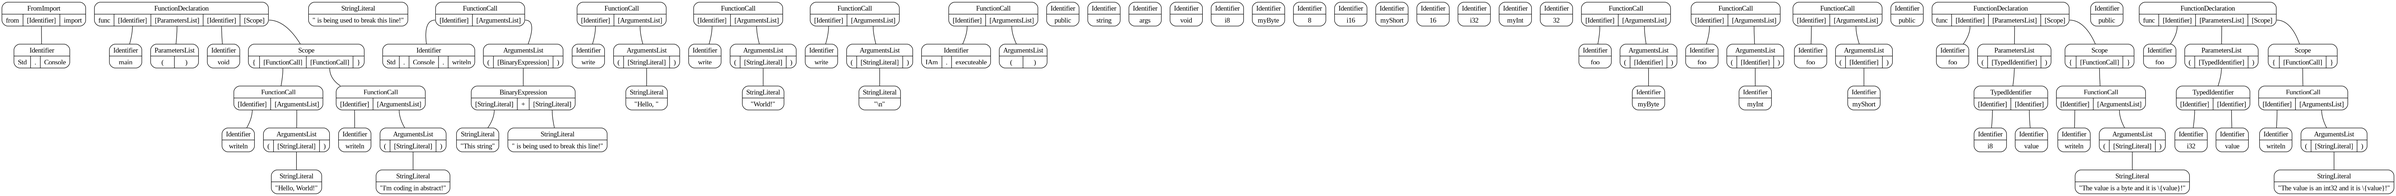
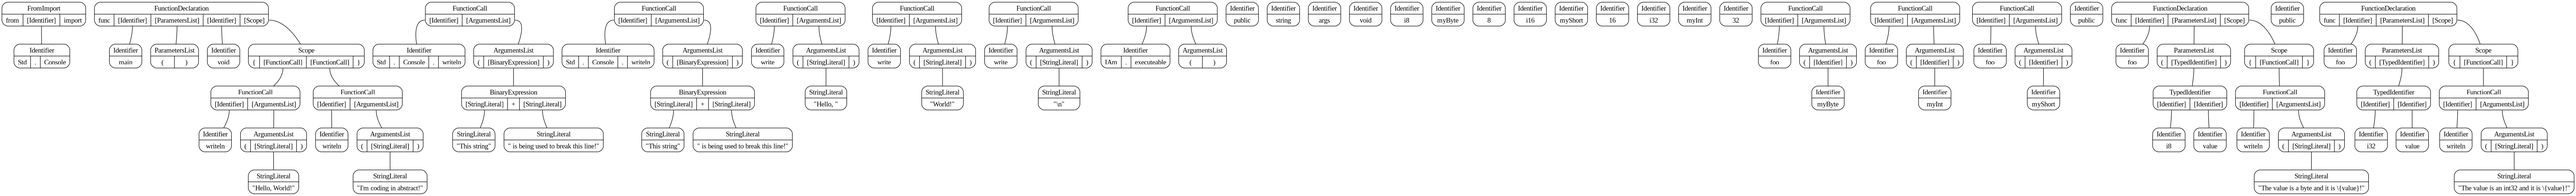
implementing line connect

diff --git a/Parsing/Lexer.cs b/Parsing/Lexer.cs
@@ -33,12 +33,16 @@ public static class Lexer
         {"false", TokenKind.keyword_value_false},
         {"null", TokenKind.keyword_value_null},
     };
-    private static readonly Dictionary<string, (bool left, bool right)> _tokenLineConnectorMap = new()
+    private static readonly Dictionary<TokenKind, (bool left, bool right)> _tokenLineConnectorMap = new()
     {
-        // TODO
+        {TokenKind.char_cross, (true, true)},
+        {TokenKind.char_dash, (true, true)},
+        {TokenKind.char_star, (true, true)},
+        {TokenKind.char_slash, (true, true)},
+        {TokenKind.char_percent, (true, true)},
     };
 
-    public static Token[] LexText(ReadOnlyMemory<char> text)
+    public static Token[] LexText(ReadOnlyMemory<char> text, bool removeUnecessary = false)
     {
         var textSpan = text.Span;
         int index = 0;
@@ -144,6 +148,7 @@ public static class Lexer
             index++; continue;
         }
 
+        if (removeUnecessary) RemoveUncecessaryTokens(tokens);
 
         var str = new StringBuilder();
         foreach (var i in tokens)
@@ -159,6 +164,32 @@ public static class Lexer
         File.WriteAllText("tokens.txt", str.ToString());
 
         return [.. tokens];
+    }
+
+    private static void RemoveUncecessaryTokens(List<Token> tkns)
+    {
+        for (var i = 0; i < tkns.Count; i++)
+        {
+            var cur = tkns[i];
+
+            if (_tokenLineConnectorMap.TryGetValue(cur.kind, out var val)) {
+
+                while (val.left && cur.before != null && cur.before.kind == TokenKind.statement_end) {
+                    var toremove = cur.before;
+                    cur.before = toremove.before;
+                    cur.before.after = cur;
+                    tkns.RemoveAt(i-1);
+                }
+
+                while (val.right && cur.after != null && cur.after.kind == TokenKind.statement_end) {
+                    var toremove = cur.after;
+                    cur.after = toremove.after;
+                    cur.after.before = cur;
+                    tkns.RemoveAt(i+1);
+                }
+
+            }
+        }
     }
 
     private static void AppendToken(List<Token> tknlist, ReadOnlyMemory<char> src, int triviabegin, int tokenbegin,  int tokenend, Token.Kind kind)

diff --git a/Build/Utils.cs b/Build/Utils.cs
@@ -236,7 +236,7 @@ public partial class Builder
                 // that can be reused inf future builds
                 // (incremental compilation)
 
-                var tokens = Lexer.LexText(s.Read());
+                var tokens = Lexer.LexText(s.Read(), true);
                 var tree = Parser.BuildTree(tokens);
 
                 progress.Done();

diff --git a/README.md b/README.md
@@ -1,2 +1,59 @@
-please crete a directory named `test-code` and use it as the project folder
-as this path is temporarelly hardcoded as the project path.
+# Introduction
+
+The Abstract Programming Language is a general-purpose system programming language
+made to be easy to learn, read, write and share. \
+The Abstract Development Environment is planned to be pretty rich, including systems
+for build, debugging, unit testing and modularity.
+
+## Abstract's Philosophy
+
+The philosophy of a language is one of the most important points of its development.
+It contains all the concepts that allows and justifies its existence.
+
+Abstract uses these five concepts as its foundation:
+> Control, Readability, Security and Portability
+
+## The Abstract Development Environment
+
+The Abstract Development Environment is made to give the user the maximum productivity
+and efficiency possible as a developer. It is built around 4 components,
+still in development:
+
+### The Compiler:
+
+The Abstract compiler is the foundation of the project. It is the main program that handles
+the raw script files, process its syntax and semantics and control the other components to
+end up with an optimized and easy to share executable program or library.
+
+### The Linker:
+
+The Abstract linker is a development tool that allow the programs and libraries to be compiled into
+final machine or byte code in the most performative way. It is also used to reduce dead code from
+libraries and merge the Abstract bytecode with any necessary assembly or machine code.
+
+### The Plugins:
+
+The Plugins are made to give freedom to the community to do whatever they want with their programs.
+These plugins can be used to manipulate the process during compilation or extends the linker,
+allowing a bigger diversity of compiling targets for different digital devices.
+
+### The Package-Manager:
+
+The Package Manager is made to allow users to build and share libraries to all purposes and compilation
+targets.
+
+# About Development
+
+The Abstract Development System is still under development and should continue like this for a good time.
+If you have some time and good knowledge, try to contribute! (it would make me really happy :3)
+
+
+[//]: # (## Current Contributors:)
+[//]: # (||||)
+[//]: # (|:----------:|:----------:|:------|)
+
+# External links
+
+- [Abstract website](https://abstractlang.github.io/abstract/)
+- [Abstract documentation](https://abstractlang.github.io/abstract/)
+- [Abstract development blogs](https://abstractlang.github.io/abstract/)
